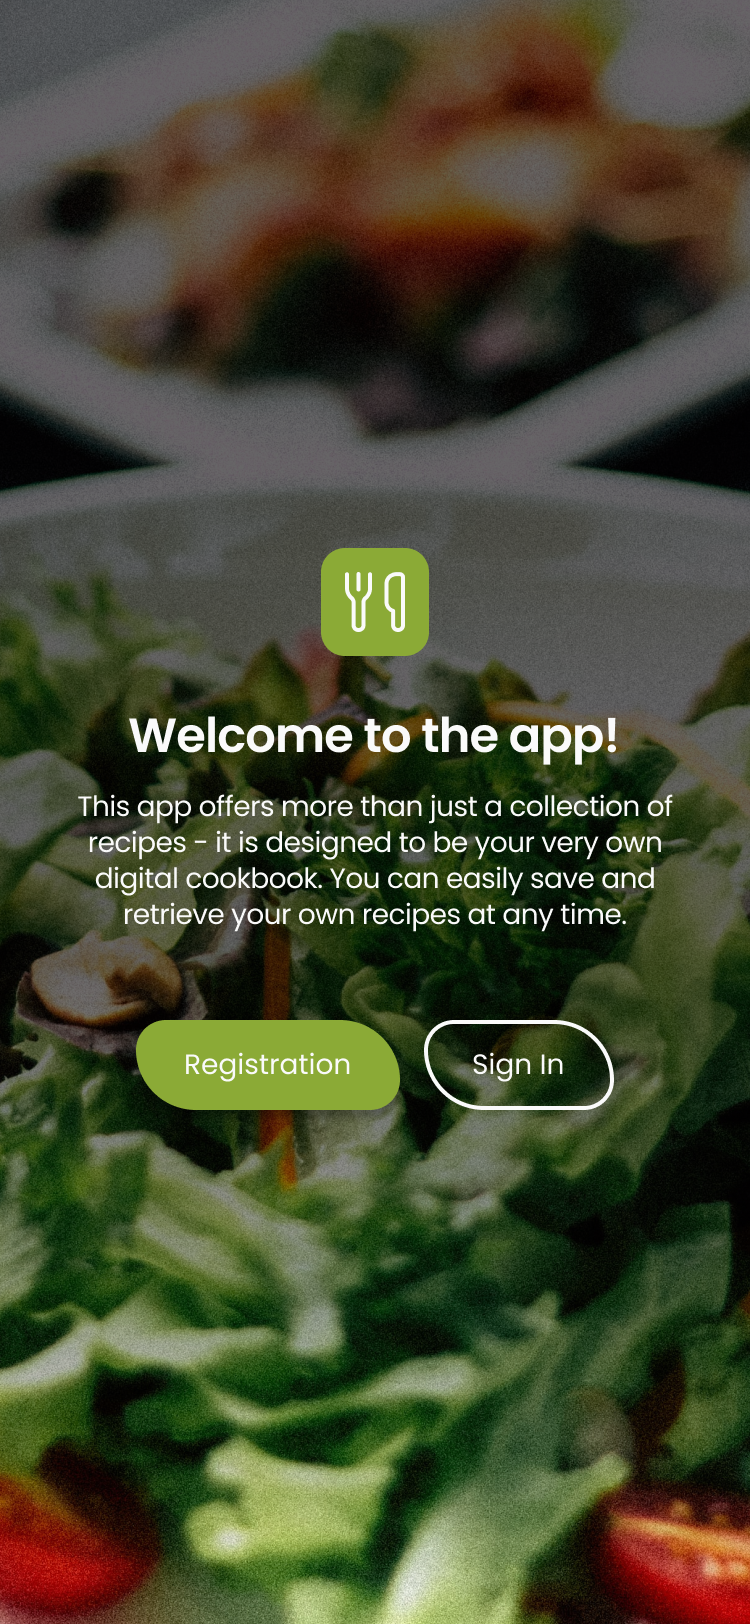
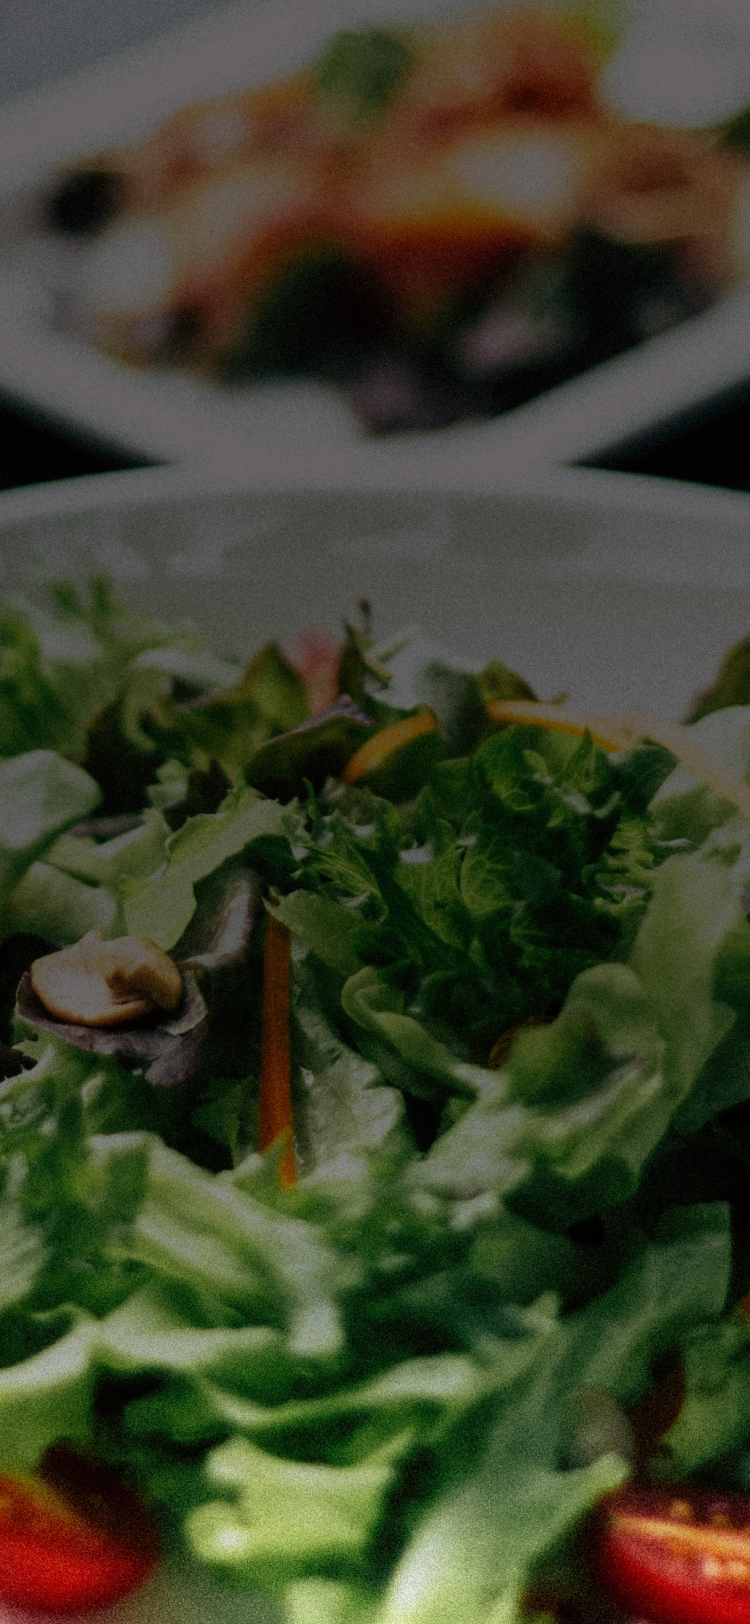
RegistrationPage setting image and form

diff --git a/src/Pages/RegisterPage/RegisterPage.module.css b/src/Pages/RegisterPage/RegisterPage.module.css
@@ -1,3 +1,60 @@
-.registerPage {
-     
+.background {
+  min-width: 100vw;
+  min-height: 100vh;
+  background-color: rgb(250, 250, 250);
+  background-image: url(../../images/LogoMobile1x.png),
+    url(../../images/backgroundRegister.png);
+  background-repeat: no-repeat;
+  background-size: 285px, cover;
+  background-position: center top 86px, center top 322px;
+
+  text-align: center;
+
+  @media (min-device-pixel-ratio: 2),
+    (min-resolution: 192dpi),
+    (min-resolution: 2dppx) {
+    background-image: url(../../images/LogoMobile2x.png),
+      url(../../images/backgroundRegister.png);
+  }
+
+  @media screen and (min-width: 768px) {
+    background-image: url(../../images/LogoTablet1x.png),
+      url(../../images/backgroundRegister.png);
+    background-size: 409px, cover;
+    background-position: center top 6px, center top 322px;
+
+    @media (min-device-pixel-ratio: 2),
+      (min-resolution: 192dpi),
+      (min-resolution: 2dppx) {
+      background-image: url(../../images/LogoTablet2x.png),
+        url(../../images/backgroundRegister.png);
+    }
+  }
+  @media screen and (min-width: 1440px) {
+    background-image: url(../../images/LogoDesctop1x.png),
+      url(../../images/backgroundRegister.png);
+    background-size: 532px, cover;
+    background-position: left 113px top 116px, center top 362px;
+
+    @media (min-device-pixel-ratio: 2),
+      (min-resolution: 192dpi),
+      (min-resolution: 2dppx) {
+      background-image: url(../../images/LogoDesctop2x.png),
+        url(../../images/backgroundRegister.png);
+    }
+  }
+}
+.form {
+  max-width: 335px;
+  margin-inline: auto;
+
+  position: absolute;
+  top: 305px;
+  left: 0px;
+  right: 0px;
+
+  @media screen and (min-width: 768px) {
+    max-width: 500px;
+    top: 345px;
+  }
 }

diff --git a/src/components/AuthForm/AuthForm.jsx b/src/components/AuthForm/AuthForm.jsx
@@ -11,27 +11,24 @@ const AuthForm = () => {
   const { pathname } = location;
 
   return (
-    <div className={css.boxAuth}>
-      <img className={css.ss} src={a} />
-      <div className={css.container}>
-        {pathname === "/register" && (
-          <>
-            <RegisterForm />{" "}
-            <Link className={css.linkForm} to="/signin">
-              Sign in
-            </Link>
-          </>
-        )}
-        {pathname === "/signin" && (
-          <>
-            <SigninForm />
-            <Link className={css.linkForm} to="/register">
-              Registration
-            </Link>
-          </>
-        )}
-      </div>
-    </div>
+    <>
+      {pathname === "/register" && (
+        <>
+          <RegisterForm />{" "}
+          <Link className={css.linkForm} to="/signin">
+            Sign in
+          </Link>
+        </>
+      )}
+      {pathname === "/signin" && (
+        <>
+          <SigninForm />
+          <Link className={css.linkForm} to="/register">
+            Registration
+          </Link>
+        </>
+      )}
+    </>
   );
 };
 

diff --git a/src/components/RegisterForm/RegisterForm.jsx b/src/components/RegisterForm/RegisterForm.jsx
@@ -19,10 +19,11 @@ const RegisterForm = () => {
         values
       );
 
-      if (response.status === 200) {
-        setSubmitStatus("success");
+      if (response.status === 201) {
+        return setSubmitStatus("success");
       } else {
-        setSubmitStatus("error");
+        
+        return setSubmitStatus("error");
       }
     } catch (error) {
       setSubmitStatus("error");
@@ -31,7 +32,7 @@ const RegisterForm = () => {
     }
   };
   return (
-    <div>
+    
       <Formik
         initialValues={{ name: "", email: "", password: "" }}
         validate={validate}
@@ -180,7 +181,7 @@ const RegisterForm = () => {
           </Form>
         )}
       </Formik>
-    </div>
+    
   );
 };
 

diff --git a/src/components/RegisterForm/RegisterForm.module.css b/src/components/RegisterForm/RegisterForm.module.css
@@ -3,6 +3,8 @@
   border-radius: 12px 20px;
 
   padding: 32px 28px;
+
+
 }
 .boxInput {
   display: flex;
@@ -14,13 +16,13 @@
   font-family: Poppins;
   font-size: 24px;
   line-height: 28px;
-
+text-align: left;
   color: #fafafa;
 }
 .inputRegister {
   background-color: transparent;
   outline: none;
-  width: 100%;
+
   border: 0;
   font-family: Poppins;
   font-size: 18px;
@@ -95,13 +97,13 @@
 }
 
 .additionalErrorIcon {
-  width: 20px;
-  height: 20px;
+  width: 5%;
+  
   margin-right: 10px;
 }
 .additionalSuccessIcon {
-  width: 20px;
-  height: 20px;
+  width: 5%;
+  
   margin-right: 10px;
   fill: green;
   stroke: green;

diff --git a/src/components/SigninForm/SigninForm.jsx b/src/components/SigninForm/SigninForm.jsx
@@ -125,12 +125,12 @@ const SigninForm = () => {
               </div>
             </div>
             {submitStatus === "success" && (
-              <div className={css.successMessage}>Registration successful!</div>
+              <div className={css.successMessage}>Login successful!</div>
             )}
 
             {submitStatus === "error" && (
               <div className={css.errorMessage}>
-                Registration failed. Please try again.
+                Login failed. Please try again.
               </div>
             )}
             <button type="submit" className={css.btnRegister}>

diff --git a/src/components/AuthForm/AuthForm.module.css b/src/components/AuthForm/AuthForm.module.css
@@ -1,7 +1,8 @@
 .boxAuth {
   height: 100vh;
-  width: 100vw;
+  width: auto;
   display: flex;
+  flex-direction: column;
   align-items: center;
   justify-content: center;
 }
@@ -29,11 +30,13 @@
   align-items: center;
 }
 .linkForm {
-    font-family: Poppins;
-    font-size: 14px;
-    color: #FAFAFA;
-    text-decoration: underline;
+  font-family: Poppins;
+  font-size: 14px;
+  color: #fafafa;
+  text-decoration: underline;
+  text-align: center;
 }
 .linkForm:hover {
-    
 }
+
+

diff --git a/src/Pages/RegisterPage/RegisterPage.jsx b/src/Pages/RegisterPage/RegisterPage.jsx
@@ -1,12 +1,15 @@
 import React from "react";
 import AuthForm from "../../components/AuthForm/AuthForm";
 import css from "./RegisterPage.module.css";
+import Logo from "../../images/LogoMobile1x.png";
 
 const RegisterPage = () => {
   return (
-    
-      <AuthForm />
-   
+    <main className={css.background}>
+      <div className={css.form}>
+        <AuthForm />
+      </div>
+    </main>
   );
 };
 
